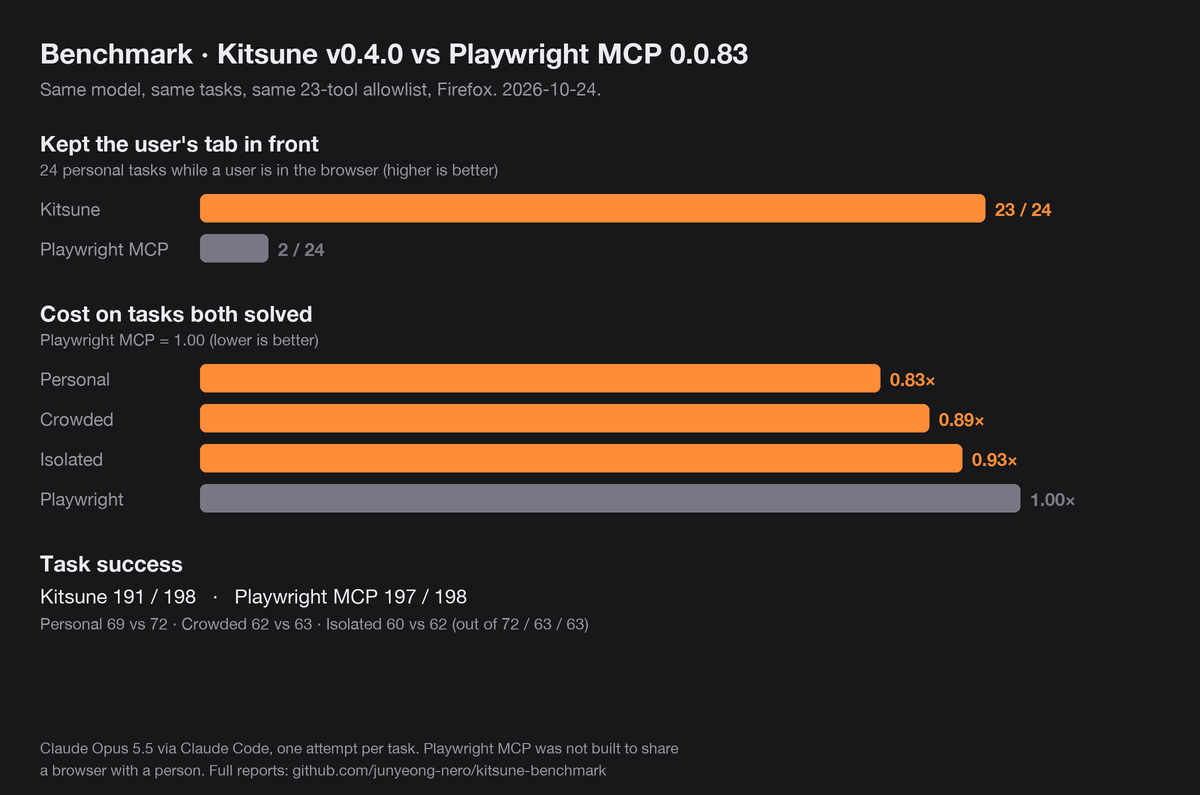
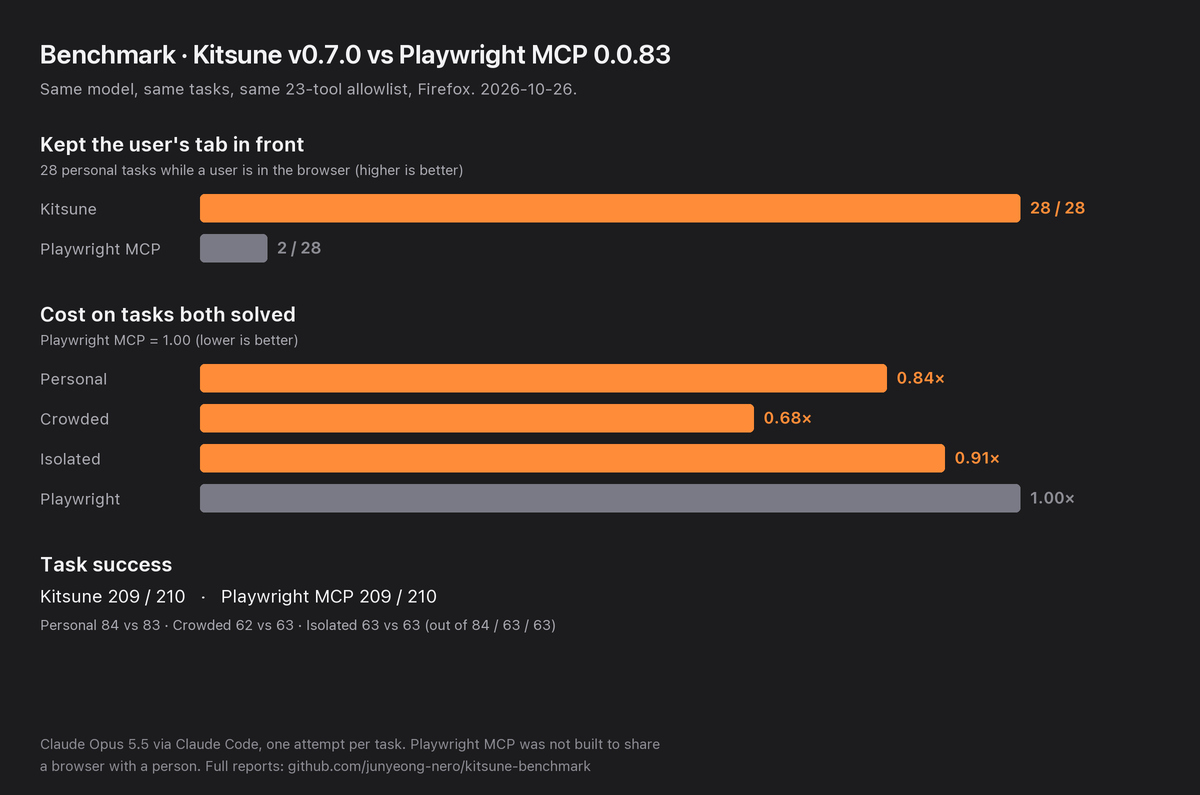
docs(readme): update the benchmark chart to Kitsune v0.7.0
Redraw assets/benchmark.png from the v0.7.0 taskset-v3 report and add scripts/benchmark_chart.py so the chart can be regenerated.

diff --git a/scripts/benchmark_chart.py b/scripts/benchmark_chart.py
@@ -1,0 +1,89 @@
+"""Draw the README benchmark chart, assets/benchmark.png, from the numbers below.
+
+usage: benchmark_chart.py [OUT.png]
+
+Run with Pillow on macOS (SF font), e.g. `uv run --no-project --with pillow python scripts/benchmark_chart.py`.
+The numbers come from a kitsune-benchmark report; update RESULTS from the next report, not by hand-tuning.
+"""
+import sys
+
+from PIL import Image, ImageDraw, ImageFont
+
+# kitsune-benchmark docs/results/2026-10-26-opus-subscription-v0.7.0.md (taskset-v3).
+RESULTS = {
+    "title": "Benchmark · Kitsune v0.7.0 vs Playwright MCP 0.0.83",
+    "subtitle": "Same model, same tasks, same 23-tool allowlist, Firefox. 2026-10-26.",
+    "kept_front": {"tasks": 28, "kitsune": 28, "playwright": 2},
+    # Claude Code list-price estimate, Kitsune / Playwright MCP, on tasks both solved.
+    "cost": {"Personal": 0.837, "Crowded": 0.675, "Isolated": 0.908},
+    "success": {"kitsune": {"Personal": 84, "Crowded": 62, "Isolated": 63},
+                "playwright": {"Personal": 83, "Crowded": 63, "Isolated": 63},
+                "of": {"Personal": 84, "Crowded": 63, "Isolated": 63}},
+    "footer": ("Claude Opus 5.5 via Claude Code, one attempt per task. Playwright MCP was not built to share",
+               "a browser with a person. Full reports: github.com/junyeong-nero/kitsune-benchmark"),
+}
+
+W, H, SCALE = 1200, 795, 2
+BG, TEXT, MUTED, DIM = (28, 28, 30), (242, 242, 245), (170, 170, 178), (140, 140, 148)
+ORANGE, GREY = (255, 140, 56), (122, 122, 134)
+SF = "/System/Library/Fonts/SFNS.ttf"
+LEFT, BAR_X, BAR_MAX, BAR_H = 40, 200, 820, 28
+
+
+WEIGHTS = {"Regular": 400, "Semibold": 650}
+
+
+def font(size, weight="Regular"):
+    f = ImageFont.truetype(SF, size * SCALE)
+    # SF's axes: width, optical size (the point size, not the 2x pixels), grade, weight.
+    f.set_variation_by_axes([100, min(max(size, 17), 96), 400, WEIGHTS[weight]])
+    return f
+
+
+def main(out="assets/benchmark.png"):
+    r = RESULTS
+    image = Image.new("RGB", (W * SCALE, H * SCALE), BG)
+    draw = ImageDraw.Draw(image)
+
+    def text(x, y, value, size, colour=TEXT, weight="Regular"):
+        draw.text((x * SCALE, y * SCALE), value, font=font(size, weight), fill=colour)
+
+    def bar(y, fraction, colour, label, label_colour):
+        width = max(BAR_MAX * fraction, BAR_H * 2.4)
+        draw.rounded_rectangle((BAR_X * SCALE, y * SCALE, (BAR_X + width) * SCALE, (y + BAR_H) * SCALE),
+                               radius=4 * SCALE, fill=colour)
+        text(BAR_X + width + 10, y + 4, label, 16, label_colour, "Semibold")
+
+    text(LEFT, 38, r["title"], 26, weight="Semibold")
+    text(LEFT, 79, r["subtitle"], 16, MUTED)
+
+    kept = r["kept_front"]
+    text(LEFT, 132, "Kept the user's tab in front", 20, weight="Semibold")
+    text(LEFT, 161, f"{kept['tasks']} personal tasks while a user is in the browser (higher is better)", 14, MUTED)
+    for y, name, colour, label_colour in ((194, "kitsune", ORANGE, ORANGE), (234, "playwright", GREY, DIM)):
+        text(LEFT, y + 5, "Kitsune" if name == "kitsune" else "Playwright MCP", 16, MUTED)
+        bar(y, kept[name] / kept["tasks"], colour, f"{kept[name]} / {kept['tasks']}", label_colour)
+
+    text(LEFT, 302, "Cost on tasks both solved", 20, weight="Semibold")
+    text(LEFT, 331, "Playwright MCP = 1.00 (lower is better)", 14, MUTED)
+    rows = [(name, value, ORANGE, ORANGE) for name, value in r["cost"].items()] + [("Playwright", 1.0, GREY, DIM)]
+    for i, (name, value, colour, label_colour) in enumerate(rows):
+        y = 364 + 40 * i
+        text(LEFT, y + 5, name, 16, MUTED)
+        bar(y, value, colour, f"{value:.2f}×", label_colour)
+
+    success, of = r["success"], r["success"]["of"]
+    total = sum(of.values())
+    text(LEFT, 552, "Task success", 20, weight="Semibold")
+    text(LEFT, 585, f"Kitsune {sum(success['kitsune'].values())} / {total}   ·   "
+                    f"Playwright MCP {sum(success['playwright'].values())} / {total}", 18)
+    detail = " · ".join(f"{track} {success['kitsune'][track]} vs {success['playwright'][track]}" for track in of)
+    text(LEFT, 616, f"{detail} (out of {' / '.join(str(n) for n in of.values())})", 14, MUTED)
+
+    for i, line in enumerate(r["footer"]):
+        text(LEFT, 735 + 22 * i, line, 14, DIM)
+    image.resize((W, H), Image.LANCZOS).save(out, optimize=True)
+
+
+if __name__ == "__main__":
+    main(*sys.argv[1:])

diff --git a/README.md b/README.md
@@ -61,14 +61,17 @@ In your browser, the agent can:
 
 ## Benchmark
 
-![Kitsune v0.4.0 vs Playwright MCP 0.0.83: kept the user's tab in front in 23 of 24 tasks vs 2 of 24; 0.83 to 0.93 times the cost on tasks both solved; 191 of 198 vs 197 of 198 tasks solved](https://raw.githubusercontent.com/junyeong-nero/kitsune/main/assets/benchmark.png)
+![Kitsune v0.7.0 vs Playwright MCP 0.0.83: kept the user's tab in front in 28 of 28 tasks vs 2 of 28; 0.68 to 0.91 times the cost on tasks both solved; both solved 209 of 210 tasks](https://raw.githubusercontent.com/junyeong-nero/kitsune/main/assets/benchmark.png)
 
-With the same tasks and tool allowlist, Kitsune v0.4.0 kept the user's tab in
-front in 23 of 24 shared-browser tasks, against 2 of 24 for Playwright MCP. On
-the tasks both solved, Kitsune cost 0.83 to 0.93 times as much. It solved 191 of
-198 tasks, and Playwright MCP solved 197. Each task was run once with Claude Opus
-5.5. Playwright MCP was not designed to share a browser with a person. See the
-[full reports](https://github.com/junyeong-nero/kitsune-benchmark/tree/main/docs/results).
+With the same tasks and tool allowlist, Kitsune v0.7.0 kept the user's tab in
+front in 28 of 28 shared-browser tasks, against 2 of 28 for Playwright MCP. On
+the tasks both solved, Kitsune cost 0.68 to 0.91 times as much, at about the
+same number of tool calls. Each solved 209 of 210 tasks. Each task was run once
+with Claude Opus 5.5. Playwright MCP was not designed to share a browser with a
+person. See the
+[v0.7.0 report](https://github.com/junyeong-nero/kitsune-benchmark/blob/main/docs/results/2026-10-26-opus-subscription-v0.7.0.md)
+and the [full reports](https://github.com/junyeong-nero/kitsune-benchmark/tree/main/docs/results).
+`scripts/benchmark_chart.py` draws the chart from the report's numbers.
 
 ## How is it different?
 
